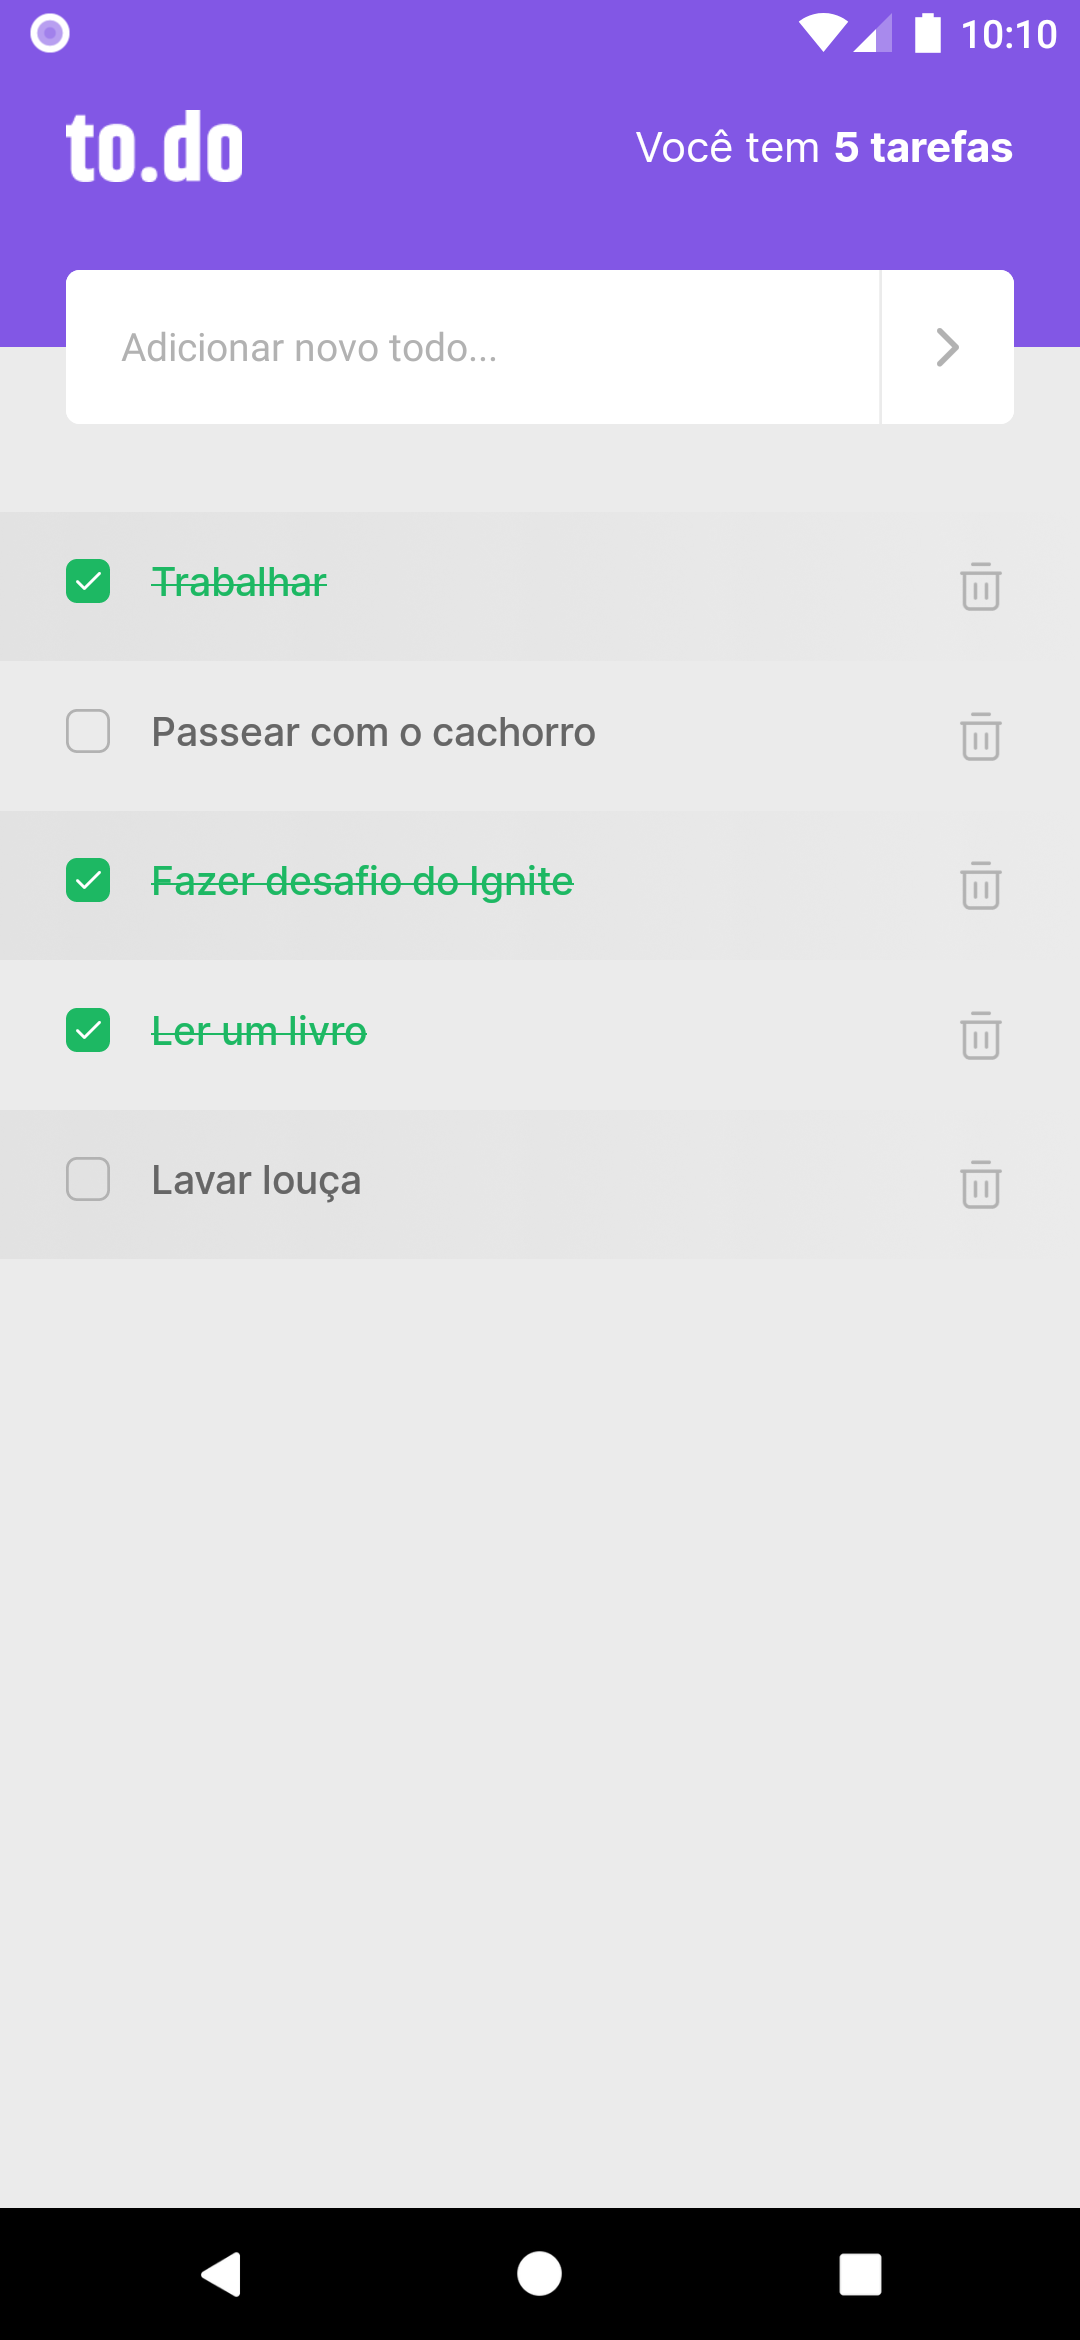
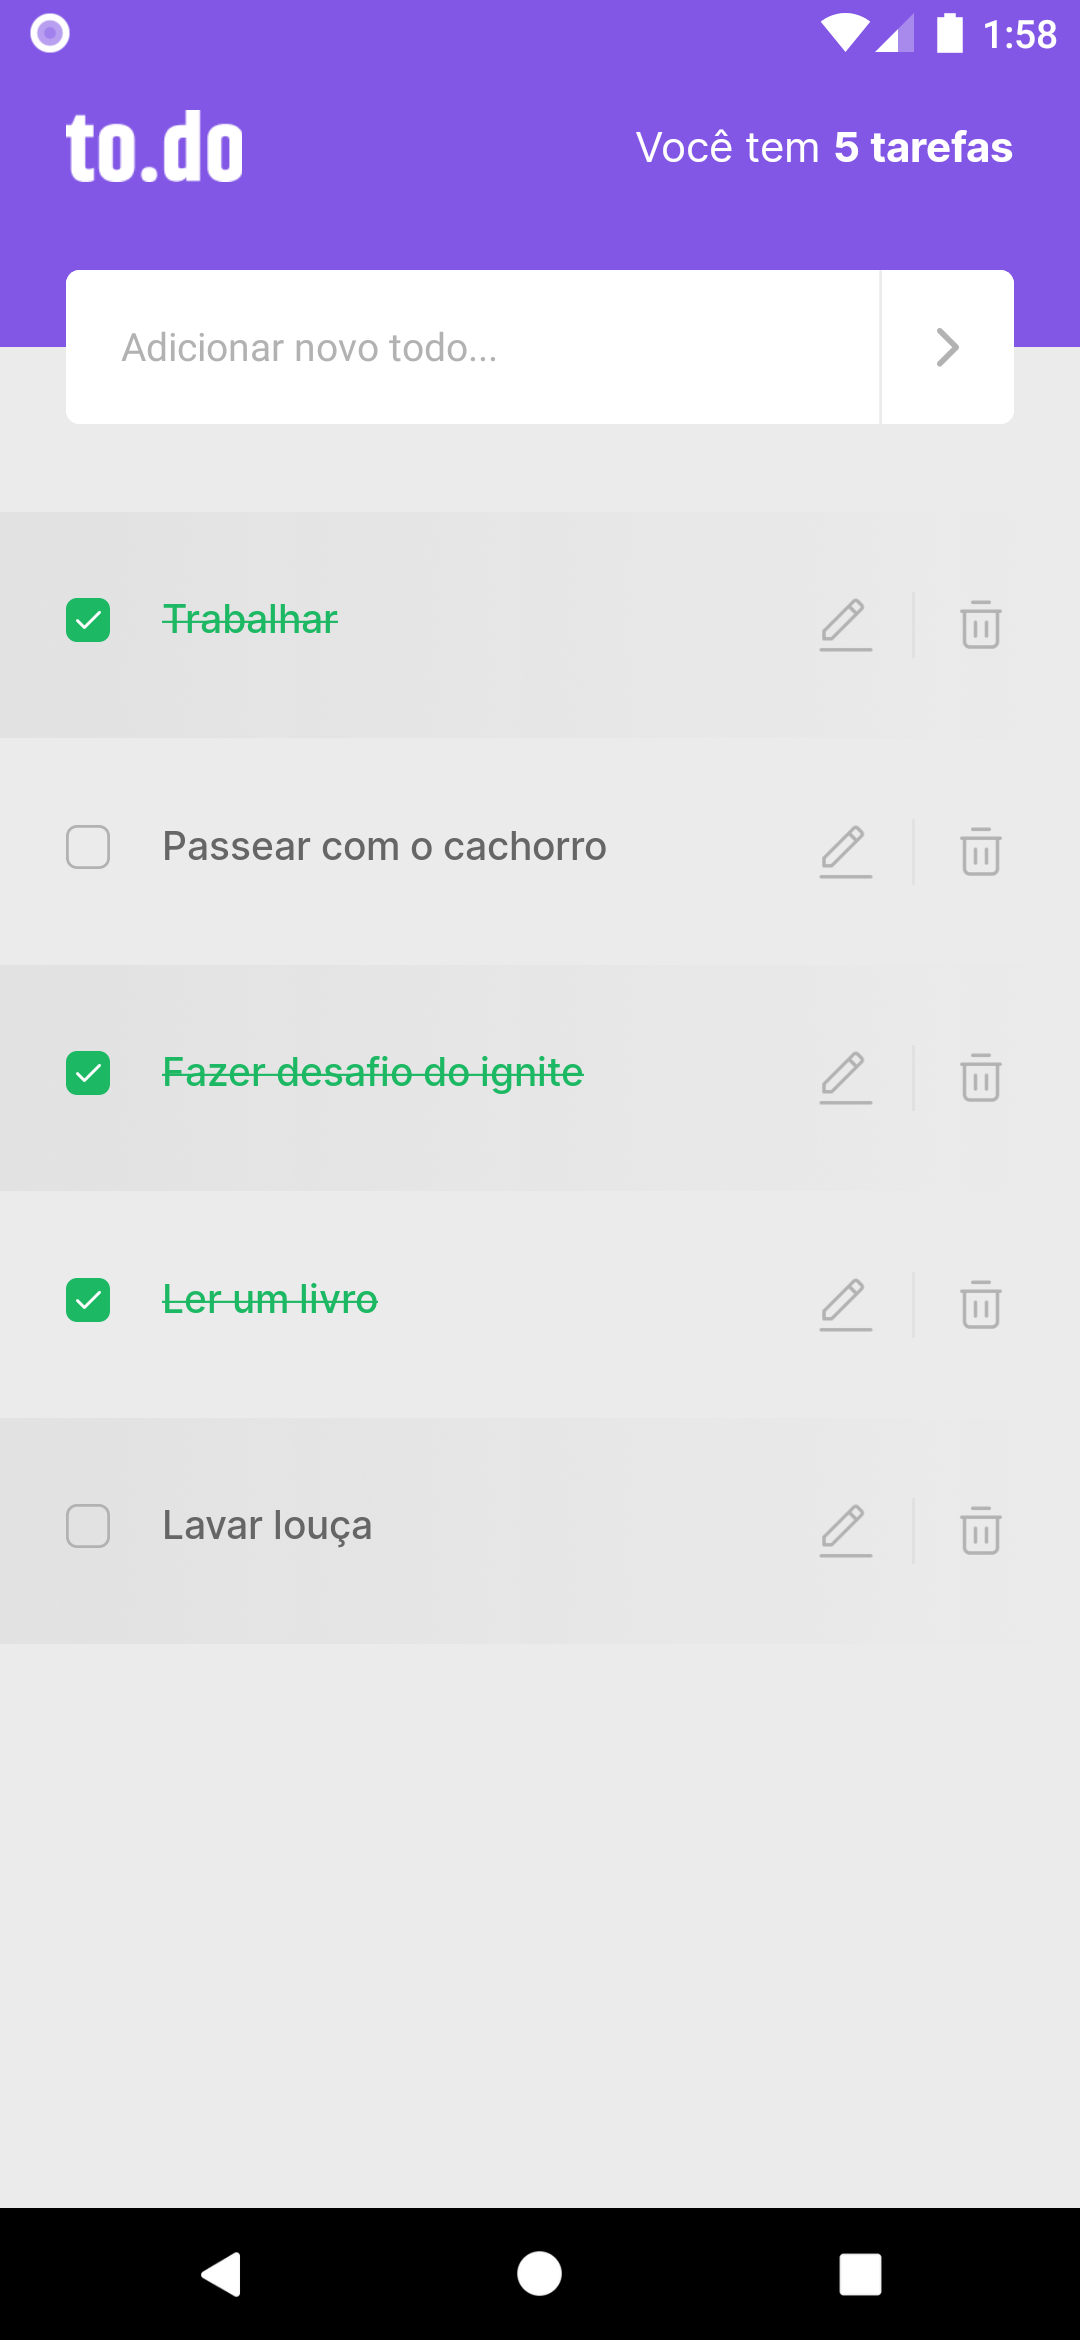
docs: ✏ update readme for this project

diff --git a/README.md b/README.md
@@ -1,19 +1,19 @@
-<h1 align="center">To.Do</h1>
+<h1 align="center">To.Do v.2</h1>
 
 <p align="center">
-  <img alt="GitHub language count" src="https://img.shields.io/github/languages/count/jtiagosantos/to.do-app?color=%green">
-  <img alt="Repository size" src="https://img.shields.io/github/repo-size/jtiagosantos/to.do-app?color=blue">
-  <a href="https://github.com/jtiagosantos/to.do-app/commits/master">
-    <img alt="GitHub last commit" src="https://img.shields.io/github/last-commit/jtiagosantos/to.do-app?color=purple">
+  <img alt="GitHub language count" src="https://img.shields.io/github/languages/count/jtiagosantos/to.do-app-v.2?color=%green">
+  <img alt="Repository size" src="https://img.shields.io/github/repo-size/jtiagosantos/to.do-app-v.2?color=blue">
+  <a href="https://github.com/jtiagosantos/to.do-app-v.2/commits/master">
+    <img alt="GitHub last commit" src="https://img.shields.io/github/last-commit/jtiagosantos/to.do-app-v.2?color=purple">
   </a>
   <img alt="License" src="https://img.shields.io/badge/license-MIT-brightgreen?color=orange">
-   <a href="https://github.com/jtiagosantos/to.do-app/stargazers">
+   <a href="https://github.com/jtiagosantos/to.do-app-v.2/stargazers">
     <img alt="Stargazers" src="https://img.shields.io/github/stars/jtiagosantos/my-skills-app?style=social">
   </a>
 </p>
 
 <h4 align="center"> 
-	🚧 To.Do 📝 Completed 🚀 🚧
+	🚧 To.Do v.2 📝 Completed 🚀 🚧
 </h4>
 
 <p align="center">
@@ -40,6 +40,7 @@
 - [x] Add a new task
 - [x] Mark a task as done
 - [x] Delete a task   
+- [x] Edit a task 
 - [x] See tasks quantity 
 
 <hr>
@@ -49,8 +50,8 @@
 1⃣ Clone project and access its folder:
 
 ```bash
-$ git clone https://github.com/jtiagosantos/to.do-app.git
-$ cd to.do-app
+$ git clone https://github.com/jtiagosantos/to.do-app-v.2.git
+$ cd to.do-app-v.2
 ```
 
 2⃣ Install dependencies:
@@ -69,12 +70,6 @@ $ yarn android or npm run android
 $ yarn ios or npm run ios
 ```
 
-4⃣ Run tests:
-
-```bash
-$ yarn test or npm run test
-```
-
 <hr>
 
 ## 🛠 Technologies
@@ -90,7 +85,7 @@ The following tools were used in the construction of project:
 
 You can view the project layout through the link below:
 
-- **[Layout](https://www.figma.com/file/JZS6SWbzv16fHbf2zZ9wVi/to.do-(Copy)?node-id=10485%3A499)**
+- **[Layout](https://www.figma.com/file/ygC8FgSF5dmXMySWn8sWFD/to.do-(Copy)?node-id=0%3A1)**
 
 <hr>
 
